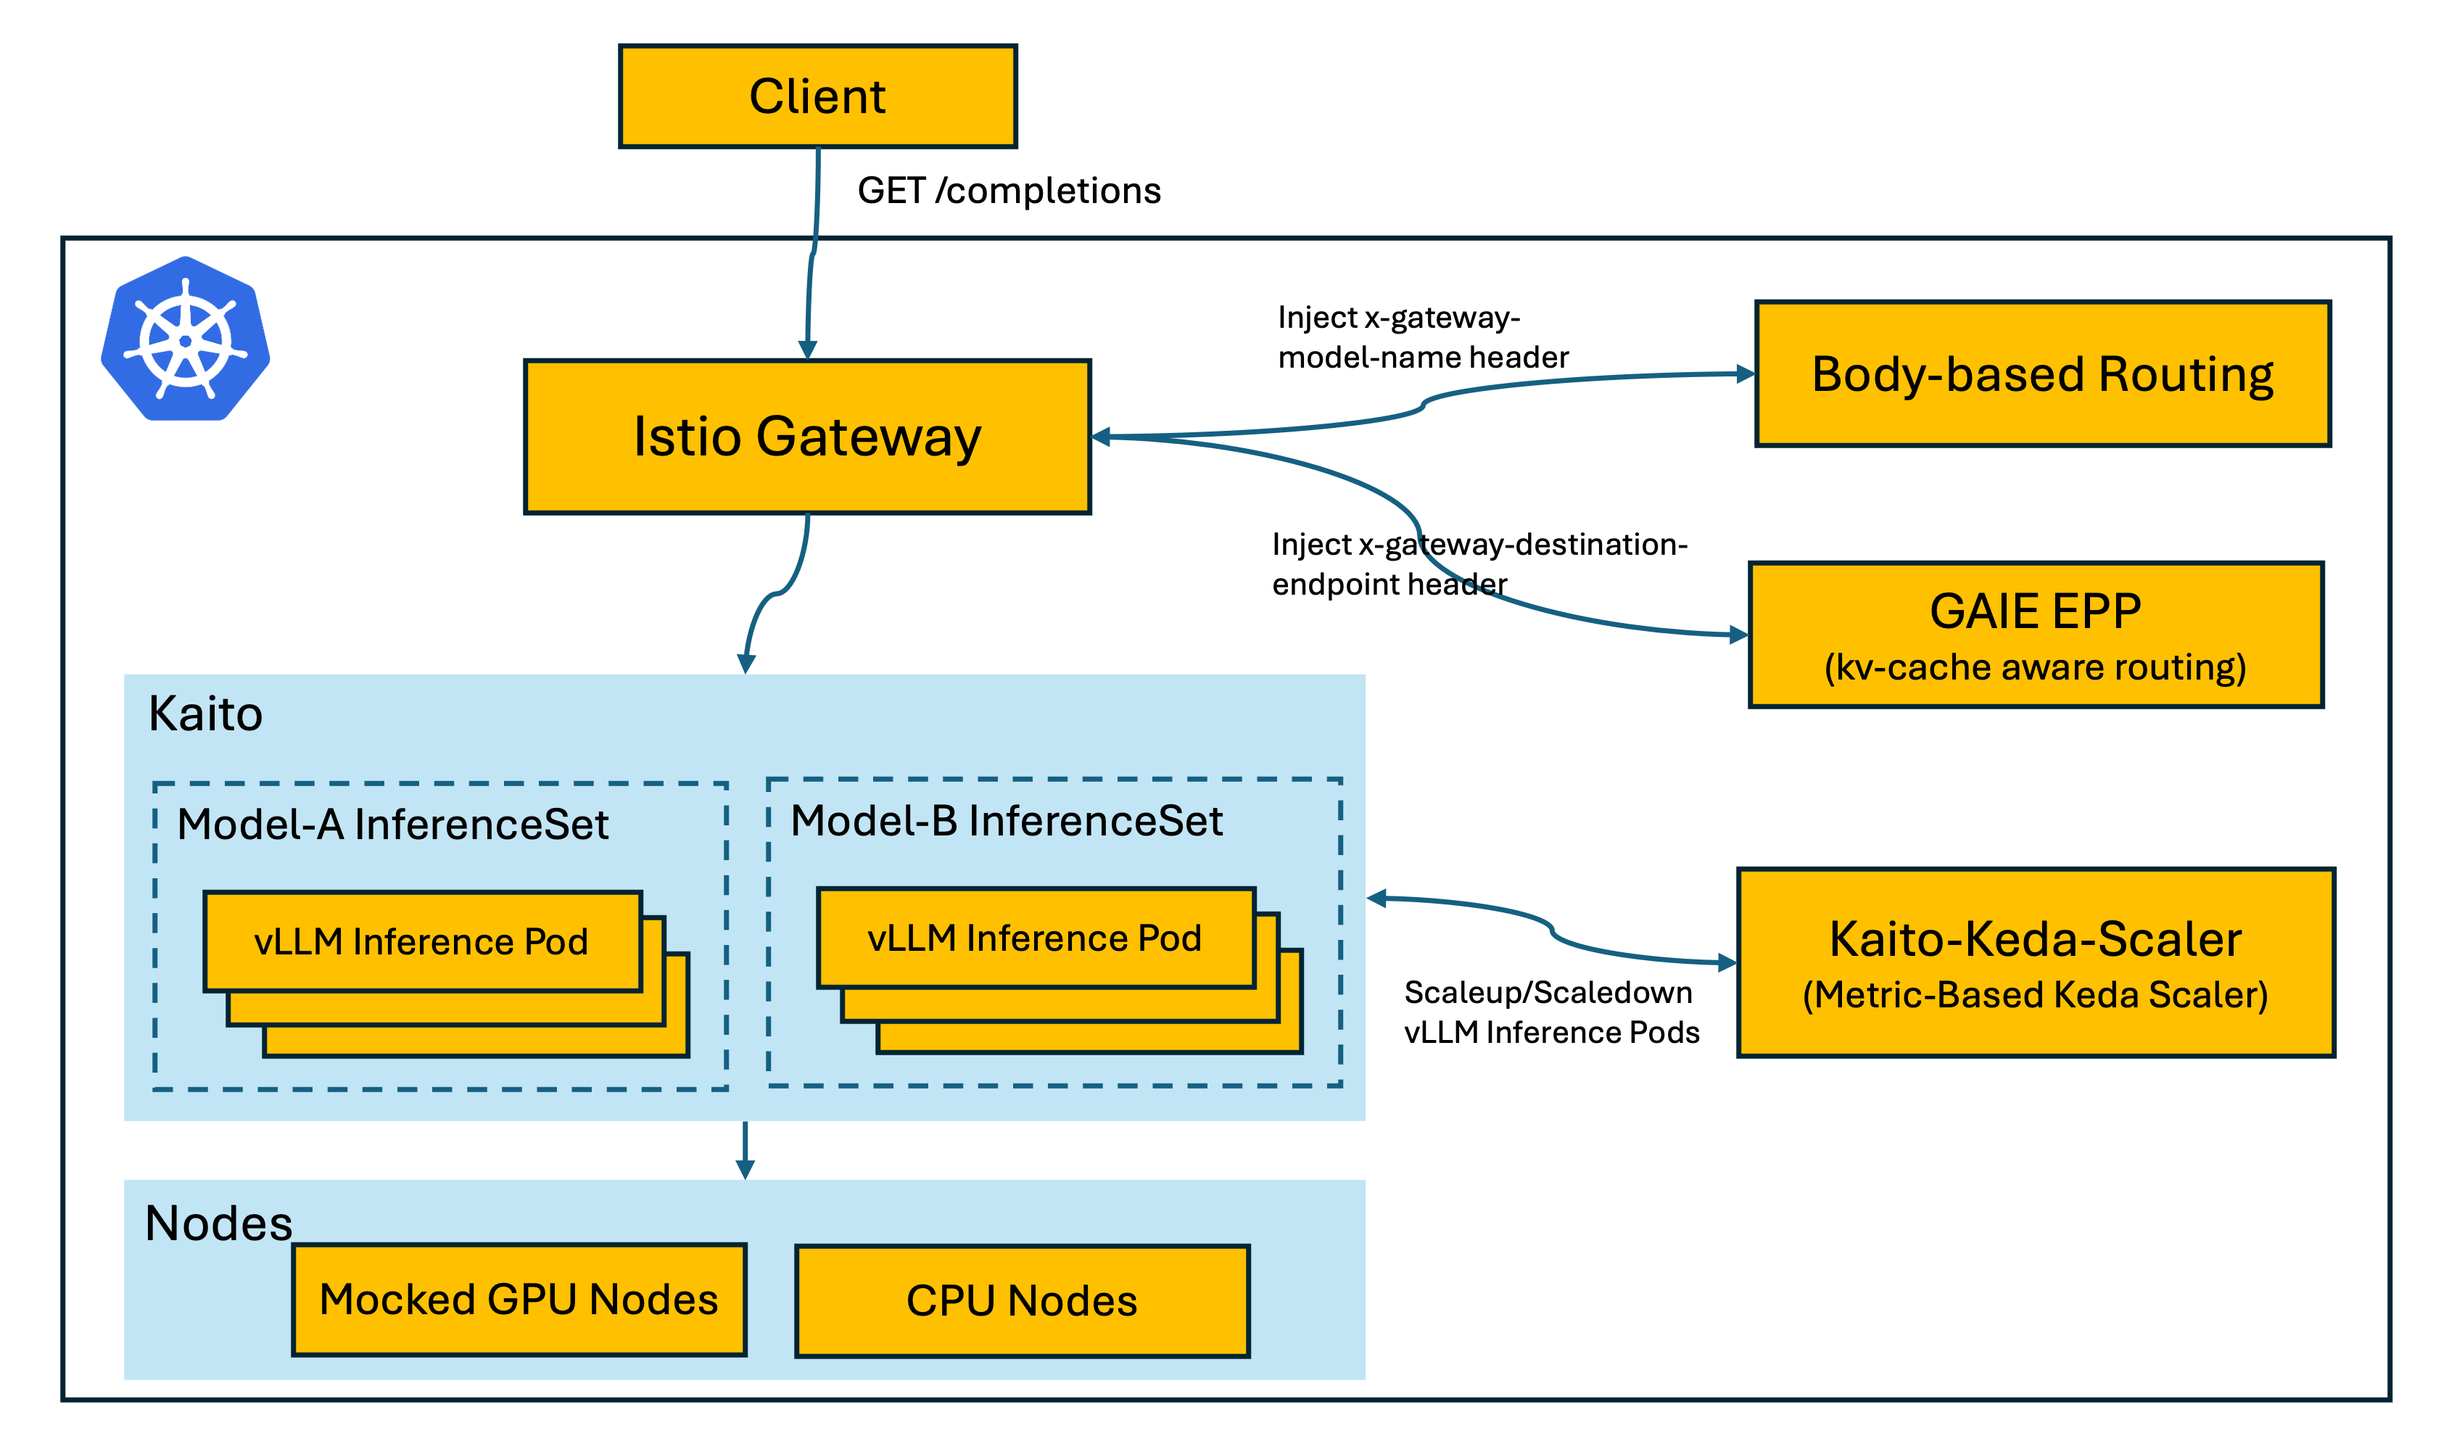
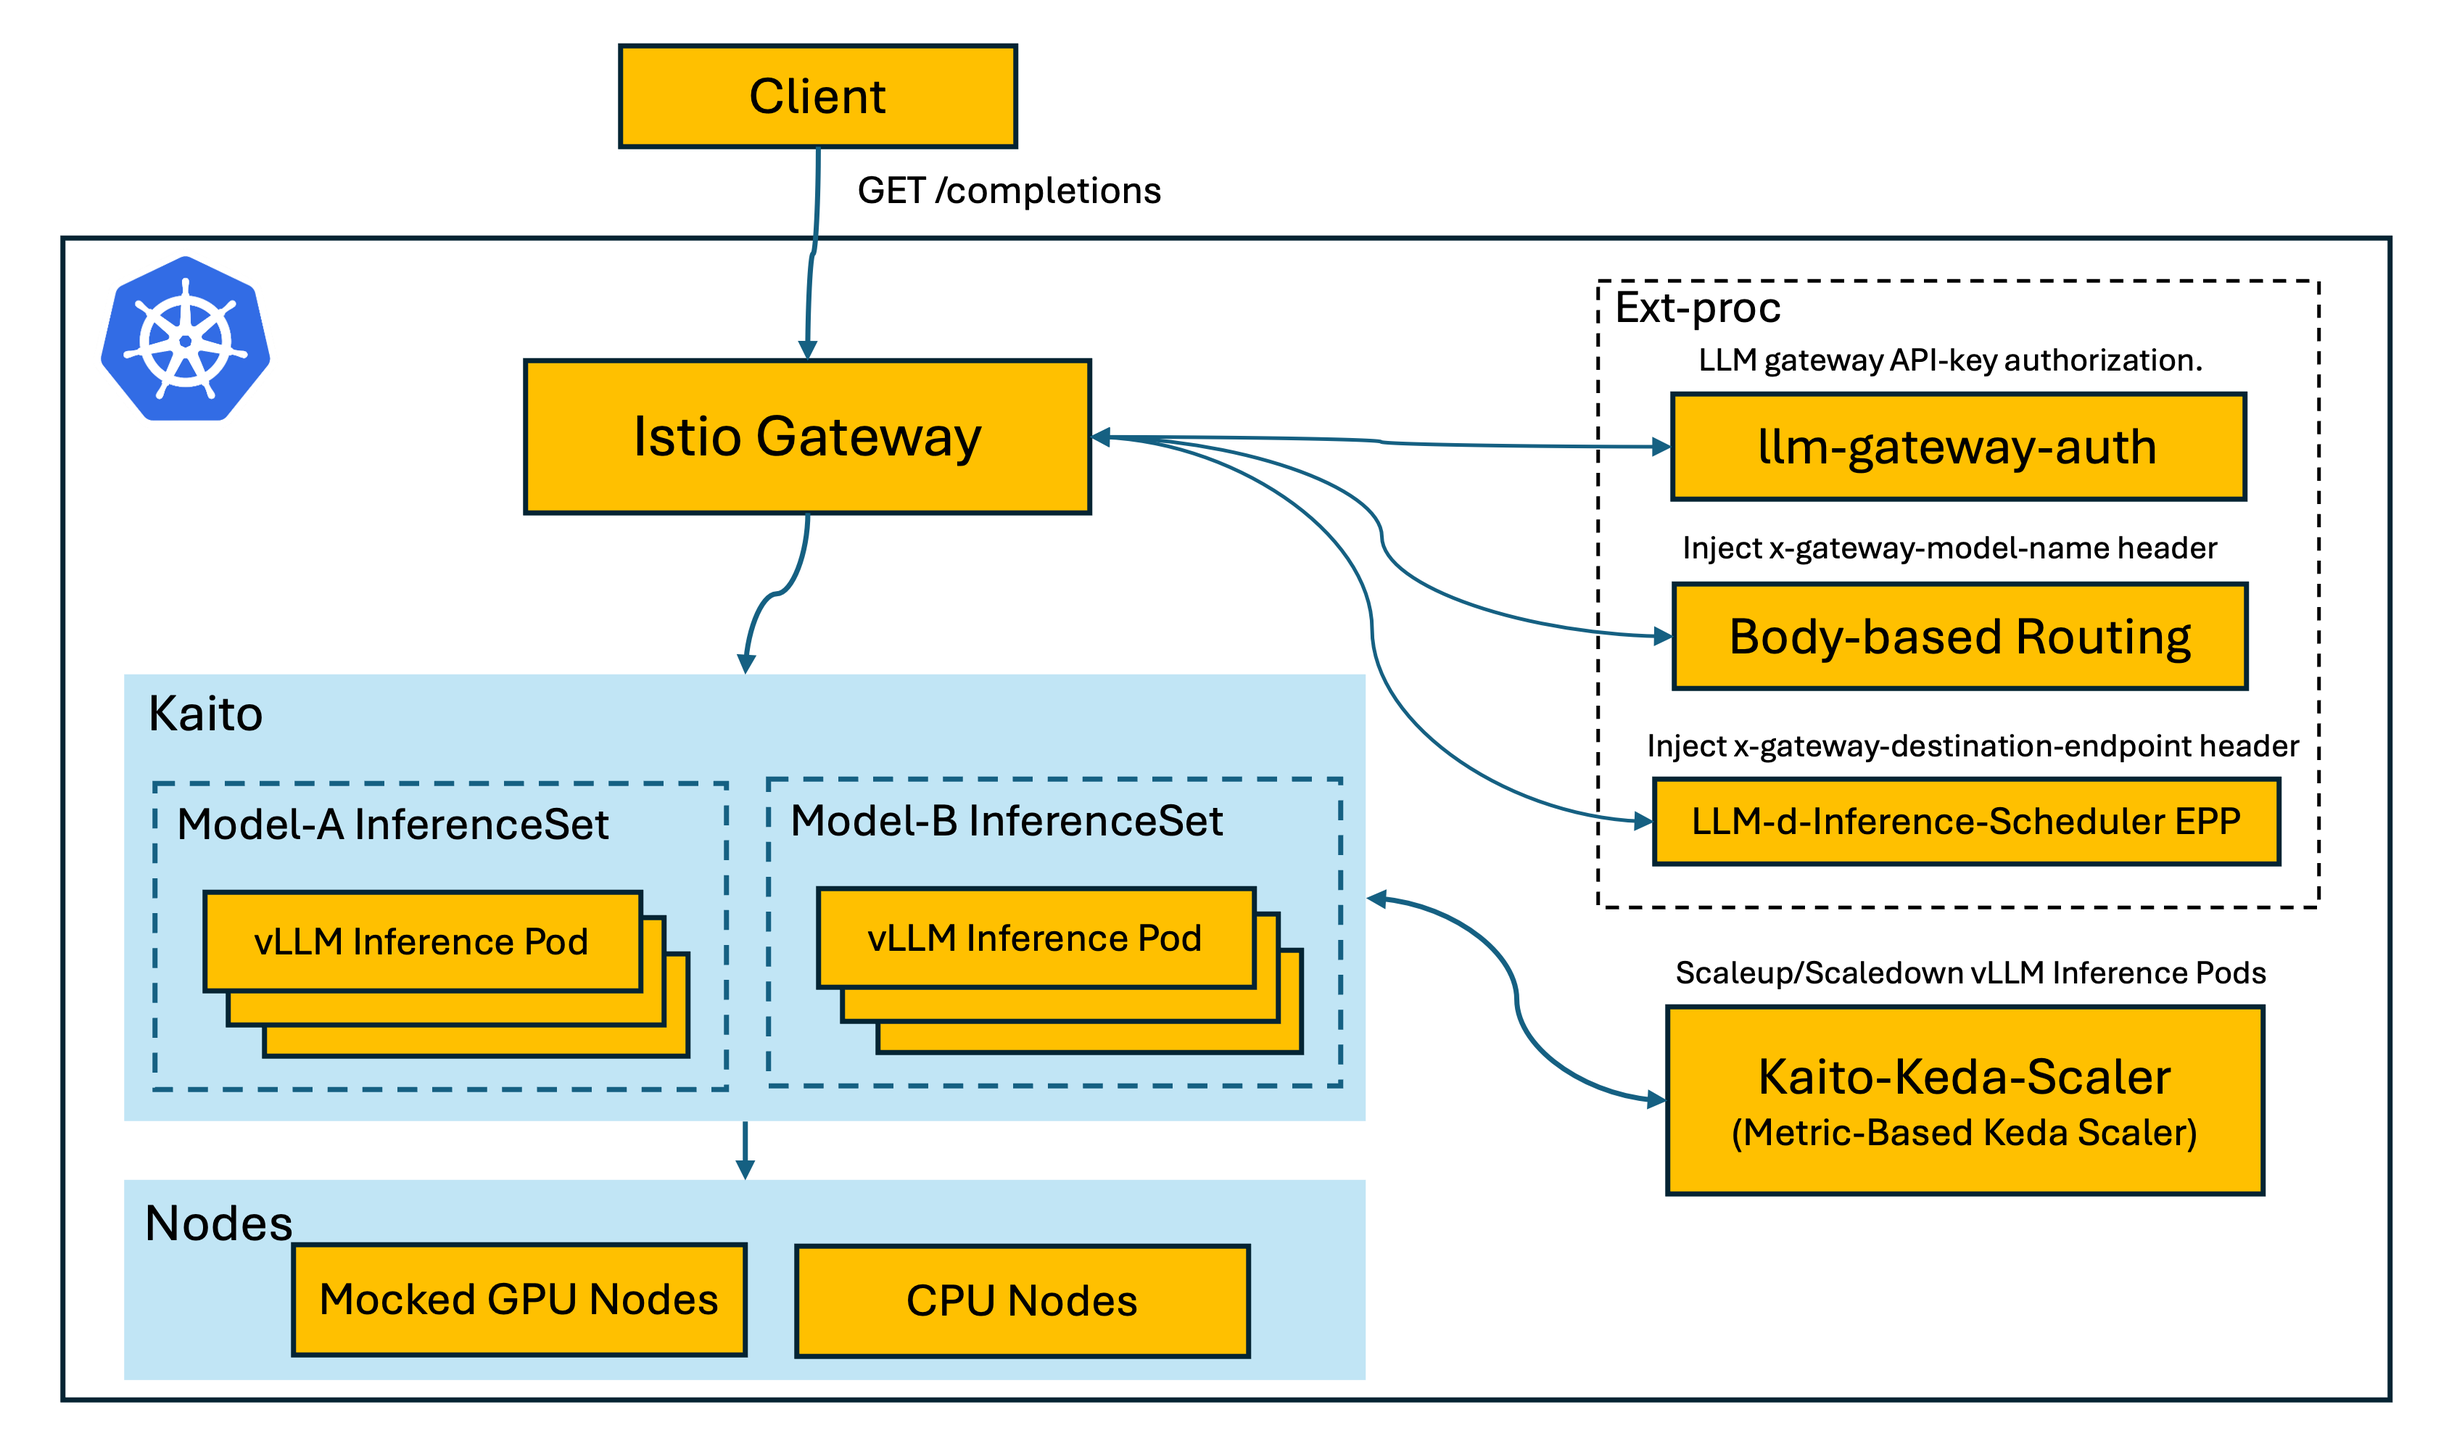
feat: upgrade producation-stack arch and readme (#43)

Changed region(s): [[0.4664, 0.1848, 0.9639, 0.8318], [0.5908, 0.5237, 0.6219, 0.5545]]

diff --git a/README.md b/README.md
@@ -8,13 +8,14 @@ This project provides a reference implementation on how to build an inference st
 
 ### Components
 
-- **Istio Gateway** — Entry point for all inference requests. Routes client requests (e.g., `GET /completions`) through the stack.
-- **Body-based Routing** — Parses request body to extract the model name and injects the `x-gateway-model-name` header, enabling model-level routing.
-- **GAIE EPP (Gateway API Inference Extension Endpoint Picker)** — Performs KV-cache aware routing by injecting the `x-gateway-destination-endpoint` header, directing requests to the optimal inference pod.
-- **Kaito InferenceSet** — Manages groups of vLLM inference pods. Multiple InferenceSets (e.g., Model-A, Model-B) can run different models simultaneously.
-- **vLLM Inference Pods** — Serve model inference requests using [vLLM](https://github.com/vllm-project/vllm).
-- **Kaito-Keda-Scaler** — Metric-based autoscaler built on [KEDA](https://keda.sh/) that scales vLLM inference pods up and down based on workload metrics.
-- **Mocked GPU Nodes / CPU Nodes** — Infrastructure layer providing compute resources for inference workloads.
+- **Istio Gateway** — Entry point for all inference requests. Routes client requests (e.g., `POST /v1/chat/completions`) through the stack.
+- **llm-gateway-auth** — ext_authz API-key authorization filter from [`kaito-project/llm-gateway-auth`](https://github.com/kaito-project/llm-gateway-auth). Validates the `Authorization: Bearer <token>` header against an `APIKey` custom resource resolved from the request's `Host` subdomain (`<namespace>.gw.example.com`) before any routing or model dispatch happens. Ships two components — `apikey-operator` (reconciles `APIKey` CRs into per-namespace Secrets) and `apikey-authz` (the ext_authz dataplane).
+- **Body-based Routing (BBR)** — Parses request body to extract the model name and injects the `X-Gateway-Model-Name` header, enabling model-level routing.
+- **llm-d-inference-scheduler (EPP)** — Per-model Endpoint Picker running [`llm-d-inference-scheduler`](https://github.com/llm-d/llm-d-inference-scheduler) (image `mcr.microsoft.com/oss/v2/llm-d/llm-d-inference-scheduler`). Performs KV-cache aware routing by injecting the `x-gateway-destination-endpoint` header, directing requests to the optimal inference pod.
+- **Kaito InferenceSet** — Manages groups of vLLM inference pods, from [`kaito-project/kaito`](https://github.com/kaito-project/kaito). Multiple InferenceSets (e.g., Model-A, Model-B) can run different models simultaneously.
+- **vLLM Inference Pods** — Serve model inference requests using [vLLM](https://github.com/vllm-project/vllm). On CPU-only E2E clusters, the real vLLM container is replaced by a **shadow pod** running [`llm-d-inference-sim`](https://github.com/llm-d/llm-d-inference-sim) (image `ghcr.io/llm-d/llm-d-inference-sim`), a lightweight vLLM-compatible simulator that exposes the same OpenAI API and `vllm:*` Prometheus metrics. See [`pkg/gpu-node-mocker/README.md`](pkg/gpu-node-mocker/README.md) for the original-pod ↔ shadow-pod mechanism.
+- **Kaito-Keda-Scaler** — Metric-based autoscaler from [`kaito-project/keda-kaito-scaler`](https://github.com/kaito-project/keda-kaito-scaler), built on [KEDA](https://keda.sh/), that scales vLLM inference pods up and down based on workload metrics.
+- **Mocked GPU Nodes / CPU Nodes** — Infrastructure layer providing compute resources for inference workloads. The `gpu-node-mocker` controller (E2E-only) fakes GPU nodes on CPU-only clusters and runs the `llm-d-inference-sim` shadow pods on real CPU nodes.
 
 ## Resource Layering
 
@@ -36,21 +37,33 @@ namespaces and are shared by every model deployment:
 | Istio control plane (`istiod`)       | `istio-system`   | `ISTIO_VERSION` (1.29.2)                | istioctl       | Implements the Gateway dataplane (Envoy) and ext_proc filter chain.                   |
 | GAIE CRDs                            | _cluster-scoped_ | latest                                  | kubectl        | `InferencePool`, `InferenceObjective`.                                                |
 | BBR (Body-Based Router)              | `istio-system`   | `BBR_VERSION` (v1.3.1)                  | helm           | Installed in Istio's rootNamespace so its EnvoyFilter applies cluster-wide; injects `X-Gateway-Model-Name`. |
-| KEDA + KEDA Kaito Scaler (optional)  | `keda`, `kaito-system` | `KEDA_VERSION` (v2.19.0), `KEDA_KAITO_SCALER_VERSION` (v0.4.1) | helm | Workload-metric autoscaling.                                                    |
+| `llm-gateway-auth` ([`kaito-project/llm-gateway-auth`](https://github.com/kaito-project/llm-gateway-auth)) | `llm-gateway-auth` | `LLM_GATEWAY_AUTH_VERSION` | helm           | API-key ext_authz for the `inference-gateway`. Installs the `APIKey` CRD, the `apikey-operator` (reconciles `APIKey` → per-namespace Secret), and the `apikey-authz` ext_authz dataplane wired into Istio via `MeshConfig` + `AuthorizationPolicy`. |
+| KEDA + KEDA Kaito Scaler ([`kaito-project/keda-kaito-scaler`](https://github.com/kaito-project/keda-kaito-scaler), optional)  | `keda` | `KEDA_VERSION` (v2.19.0), `KEDA_KAITO_SCALER_VERSION` (v0.4.1) | helm | Workload-metric autoscaling.                                                    |
 
 ### 2. Namespace tier (one-time per environment / tenant)
 
-These resources scope traffic into a Gateway dataplane. A namespace may
-host one or more model deployments that all share its Gateway:
+These resources scope traffic into a Gateway dataplane and the API-key
+auth policy for that gateway. A namespace may host one or more model
+deployments that all share its Gateway:
 
-| Resource                              | Where                | Version       | Install method                       | Role                                                                          |
-| ------------------------------------- | -------------------- | ------------- | ------------------------------------ | ----------------------------------------------------------------------------- |
-| `Gateway` (`gateway.networking.k8s.io/v1`) | Per namespace   | API `v1`      | `provisionNamespaceResources` (E2E)  | Public entry point; `gatewayClassName: istio`, HTTP/80.                       |
-| Catch-all `HTTPRoute` + `ReferenceGrant`   | Per namespace + `default` | API `v1` / `v1beta1` | `provisionNamespaceResources` (E2E)  | Routes unmatched paths to the shared `default/model-not-found` Service so unknown models receive an OpenAI-compatible 404. |
+| Resource                                                       | Where                     | Version              | Install method                       | Role                                                                                                                  |
+| -------------------------------------------------------------- | ------------------------- | -------------------- | ------------------------------------ | --------------------------------------------------------------------------------------------------------------------- |
+| `Gateway` (`gateway.networking.k8s.io/v1`)                     | Per namespace             | API `v1`             | `provisionNamespaceResources` (E2E)  | Public entry point; `gatewayClassName: istio`, HTTP/80.                                                               |
+| Catch-all `HTTPRoute`                                          | Per namespace             | API `v1`             | `provisionNamespaceResources` (E2E)  | Routes unmatched paths on the per-case Gateway to the shared `default/model-not-found` Service so unknown models receive an OpenAI-compatible 404. |
+| `ReferenceGrant` `allow-model-not-found-from-<ns>`             | `default`                 | API `v1beta1`        | `provisionNamespaceResources` (E2E)  | Authorises the per-namespace catch-all `HTTPRoute` to reference `default/model-not-found` across namespaces.          |
+| `AuthorizationPolicy` `apikey-gateway-ext-authz` (auth-enabled) | Per namespace             | `security.istio.io/v1` | `provisionNamespaceResources` (E2E)  | Wires the per-case Gateway pod into the cluster-wide `apikey-ext-authz` CUSTOM provider (registered in `MeshConfig` by `llm-gateway-auth`); the upstream chart only installs an AP for the cluster-wide `inference-gateway`. |
+| `APIKey` `default` (auth-enabled)                              | Per namespace             | `apikeys.kaito.sh/v1alpha1` | `provisionNamespaceResources` (E2E)  | Triggers the `apikey-operator` to reconcile a Secret (`llm-api-key`) holding the bearer token the test client / clients send.                       |
 
 In the E2E suite these are provisioned by a single function,
 [`provisionNamespaceResources`](test/e2e/utils/setup.go) — extend it
-when a new per-namespace artifact is introduced.
+when a new per-namespace artifact is introduced. The two auth-related
+resources (`AuthorizationPolicy`, `APIKey`) are skipped when a case
+opts out of API-key auth.
+
+> **Note:** The `default` namespace's equivalent resources are
+> pre-provisioned by
+> [`hack/e2e/scripts/install-components.sh`](hack/e2e/scripts/install-components.sh)
+> during cluster setup, so `EnsureNamespace` short-circuits for it.
 
 ### 3. Workload tier (per model deployment)
 
@@ -61,7 +74,7 @@ per model deployment, parented to the namespace's `Gateway`:
 | ------------------------------------------------ | ------------------------ | -------------- | --------------------------------------------------------------------- |
 | `InferenceSet` (`kaito.sh/v1alpha1`)             | `v1alpha1`               | helm           | Reconciled by KAITO; renders inference pods running vLLM.             |
 | `InferencePool` (`inference.networking.k8s.io/v1`) | `v1`                   | helm           | Selects the inference pods backing this deployment.                   |
-| EPP `Deployment` + `Service` + RBAC + `ConfigMap` | `apps/v1`, `v1`, `rbac/v1` | helm         | Endpoint Picker for KV-cache aware routing.                           |
+| EPP `Deployment` + `Service` + RBAC + `ConfigMap` | `apps/v1`, `v1`, `rbac/v1` | helm         | Endpoint Picker (`llm-d-inference-scheduler`) for KV-cache aware routing. |
 | `HTTPRoute` (`gateway.networking.k8s.io/v1`)     | `v1`                     | helm           | Matches `X-Gateway-Model-Name == <name>` on the namespace's Gateway and forwards to the InferencePool. |
 
 The chart's `name` value is the per-deployment routing key; `model` is
@@ -83,20 +96,28 @@ implementation details of the charts above and are not listed here.
 | `InferenceSet` | `kaito.sh/v1alpha1` | KAITO | Declares one model deployment; KAITO renders inference pods. |
 | `InferencePool` | `inference.networking.k8s.io/v1` | Gateway API Inference Extension (GAIE) | GAIE pool selecting the inference pods backing a deployment. |
 | `InferenceObjective` | `inference.networking.k8s.io/v1` | Gateway API Inference Extension (GAIE) | API object defining objective contracts; CRD only — not authored by this stack. |
+| `APIKey` | `apikeys.kaito.sh/v1alpha1` | [`kaito-project/llm-gateway-auth`](https://github.com/kaito-project/llm-gateway-auth) | Declares an API key for a gateway namespace; the `apikey-operator` reconciles it into a `Secret` (`llm-api-key` by default) consumed by the `apikey-authz` ext_authz filter. |
 | `Gateway` | `gateway.networking.k8s.io/v1` | Kubernetes Gateway API | Per-namespace public entry point; `gatewayClassName: istio`, HTTP/80. |
 | `HTTPRoute` | `gateway.networking.k8s.io/v1` | Kubernetes Gateway API | Model-specific routes match `X-Gateway-Model-Name == <name>` → InferencePool; catch-all routes unmatched paths to `default/model-not-found` for an OpenAI 404. |
 | `ReferenceGrant` | `gateway.networking.k8s.io/v1beta1` | Kubernetes Gateway API | Authorises the per-namespace catch-all `HTTPRoute` to reference `default/model-not-found`. |
 | `EnvoyFilter` | `networking.istio.io/v1alpha3` | Istio | BBR injects ext_proc into every Istio Gateway via rootNamespace; debug filter adds a Lua `PRE-BBR` / `POST-EPP` / `RESPONSE` log chain for E2E. |
-| `DestinationRule` | `networking.istio.io/v1` | Istio | Configures mTLS / load balancing for the BBR ext_proc Service. |
+| `AuthorizationPolicy` | `security.istio.io/v1` | Istio (rendered by `llm-gateway-auth`) | Targets the `inference-gateway` Pod and routes ext_authz to the `apikey-authz` provider so every request must carry a valid `APIKey`-derived bearer token. |
 
 ## Testing
 
 The E2E suite under [`test/e2e/`](test/e2e) exercises the full stack
-(Gateway → BBR → EPP → vLLM) against a live cluster. Run it via
-`make test-e2e` after a cluster is up.
+(Gateway → llm-gateway-auth (ext_authz) → BBR → EPP
+(`llm-d-inference-scheduler`) → vLLM shadow pod
+(`llm-d-inference-sim`)) against a live AKS cluster. Tests run as
+parallel `Ordered` Ginkgo Describes, one per case namespace.
 
-To add a new test case, follow
-[**Adding a new e2e test**](test/e2e/README.md#adding-a-new-e2e-test) in
-the E2E framework README.
+See [`test/e2e/README.md`](test/e2e/README.md) for the full framework
+guide, helper API, and the
+[**Adding a new e2e test**](test/e2e/README.md#adding-a-new-e2e-test)
+workflow.
+
+## License
+
+Production Stack is licensed under the [Apache License 2.0](LICENSE).
 
 
